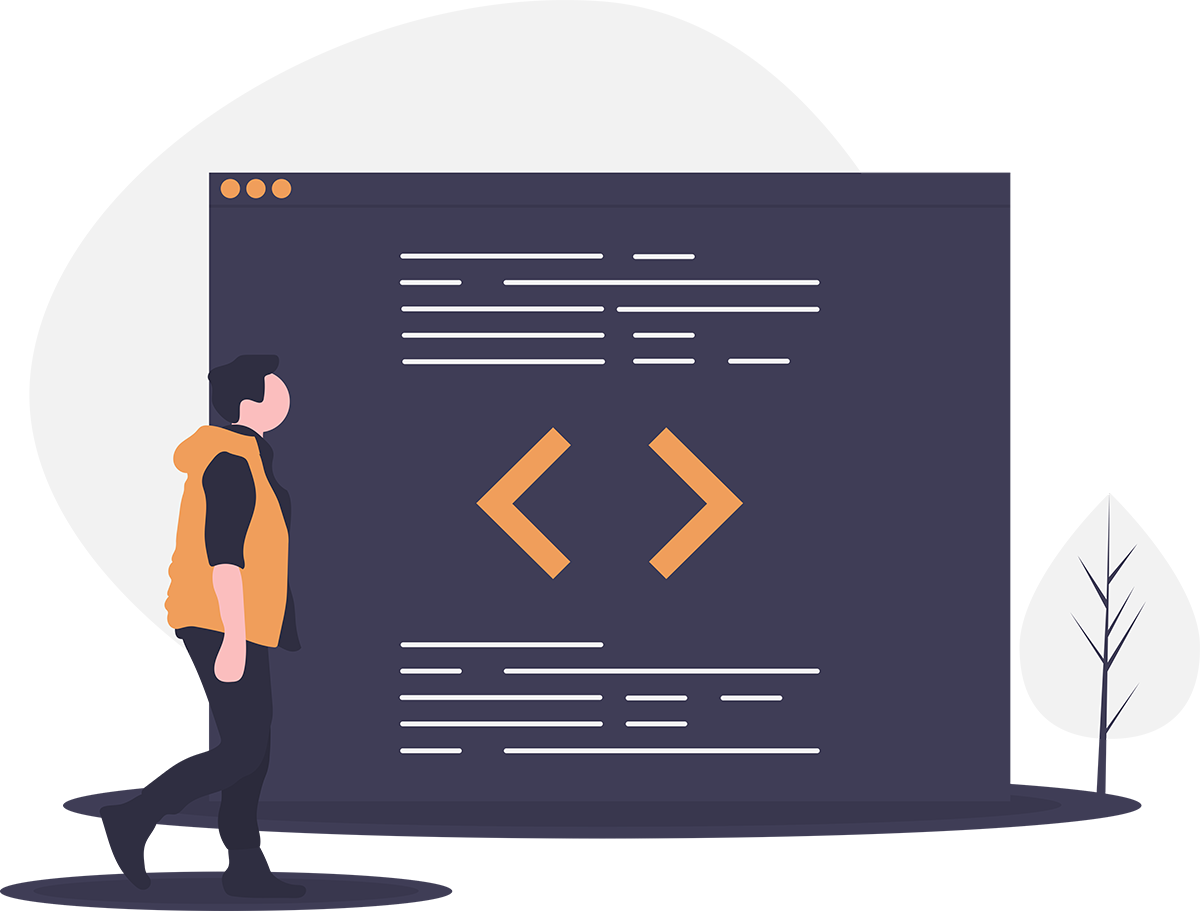
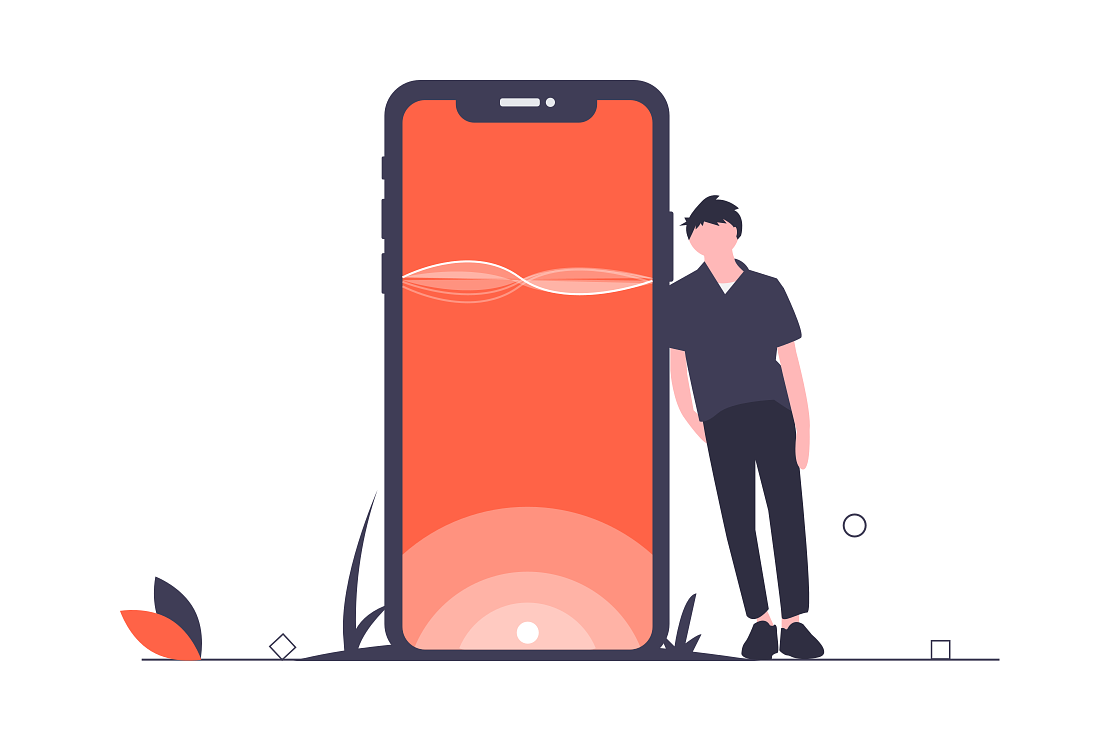
added svgs and responsive styling

diff --git a/web/src/components/Intro.module.css b/web/src/components/Intro.module.css
@@ -7,8 +7,33 @@
   margin-top: -95.19px;
 }
 
+.intro-button {
+  border-radius: 4px;
+  display: block;
+  margin: 0 0 10px 0;
+  padding: 10px 35px;
+  background-color: #3f3d56d7;
+  border: none;
+  font-size: 1.5em;
+  width: 130px;
+  text-align: left;
+  font-family: "Nunito", sans-serif;
+  color: white;
+  text-decoration: none;
+}
+
+.intro-button:hover {
+  background-color: #3f3d56;
+  color: white;
+  -webkit-transition: 0.3s;
+  -o-transition: 0.3s;
+  transition: 0.3s;
+  cursor: pointer;
+}
+
 .text-container {
   padding-top: 250px;
+  padding-left: 100px;
 }
 
 .intro-title {
@@ -23,25 +48,35 @@
 }
 
 .container {
-  background: url("../assets/undraw_code_review_l1q9.svg");
-  background-size: 500px;
+  background: url("../assets/undraw_Mobile_application_mr4r.svg");
+  background-size: 600px;
   background-position: 100% 70%;
   background-repeat: no-repeat;
   height: 700px;
   box-sizing: border-box;
-  max-width: 1100px;
+  max-width: 1300px;
   padding: 2em;
   margin: 0 auto;
+}
+
+@media (max-width: 1250px) {
+  .text-container {
+    padding-left: 10%;
+  }
+
+  .container {
+    background-size: 500px;
+  }
 }
 
 @media (max-width: 950px) {
   .text-container {
     padding-top: 250px;
-    padding-left: 30%;
+    padding-left: 20%;
   }
 
   .container {
-    background-size: 1000px;
+    background: none;
     background-position: -850px 30%;
   }
 }
@@ -58,7 +93,10 @@
   }
 
   .container {
-    background-size: 340px;
-    background-position: 100% 20%;
+    background: url("../assets/undraw_Mobile_application_mr4r.svg");
+    background-size: 350px;
+    background-position: 100% 25%;
+    background-repeat: no-repeat;
+    height: 800px;
   }
 }

diff --git a/web/src/components/Intro.js b/web/src/components/Intro.js
@@ -1,4 +1,5 @@
 import React from "react";
+import { Link } from "gatsby";
 
 import introStyles from "./Intro.module.css";
 import Fade from "react-reveal/Fade";
@@ -10,8 +11,12 @@ const Intro = () => (
         <Fade left>
           <h1 className={introStyles.introTitle}>Hello!</h1>
           <p className={introStyles.introParagraph}>
-            I help businesses attract more customers and increase sales by making kick-ass websites!
+            I help businesses attract more customers and increase sales by making kick-ass websites
+            and applications!
           </p>
+          <Link className={introStyles.introButton} to="/contact">
+            Contact Me
+          </Link>
         </Fade>
       </div>
     </div>

diff --git a/web/src/components/about.module.css b/web/src/components/about.module.css
@@ -1,7 +1,26 @@
 .text-container {
   display: grid;
-  grid-template-columns: repeat(auto-fit, minmax(200px, 1fr));
+  grid-template-columns: 1fr 1fr;
   grid-column-gap: 100px;
+}
+
+.imagebg {
+  display: none;
+}
+
+@media (max-width: 768px) {
+  .text-container {
+    grid-template-columns: 1fr;
+  }
+
+  .imagebg {
+    display: block;
+    height: 400px;
+    background: url("../assets/undraw_code_typing_7jnv.svg");
+    background-size: contain;
+    background-position: 100% 70%;
+    background-repeat: no-repeat;
+  }
 }
 
 /* .about-title {

diff --git a/web/src/components/layout.module.css b/web/src/components/layout.module.css
@@ -43,10 +43,10 @@
   }
 }
 
-@media (max-width: 450px) {
+@media (max-width: 600px) {
   .content {
     background: url("../assets/blobs3-mobile.svg");
-    background-position: bottom;
+    background-position: cover;
     background-size: 100%;
     background-repeat: no-repeat;
     min-height: calc(100% - 73px - 120px);

diff --git a/web/src/pages/about.js b/web/src/pages/about.js
@@ -35,6 +35,7 @@ const AboutPage = () => (
             </p>
           </div>
         </Fade>
+        <div className={styles.imagebg} />
         <Fade right>
           <div>
             <h2>The Blog</h2>
